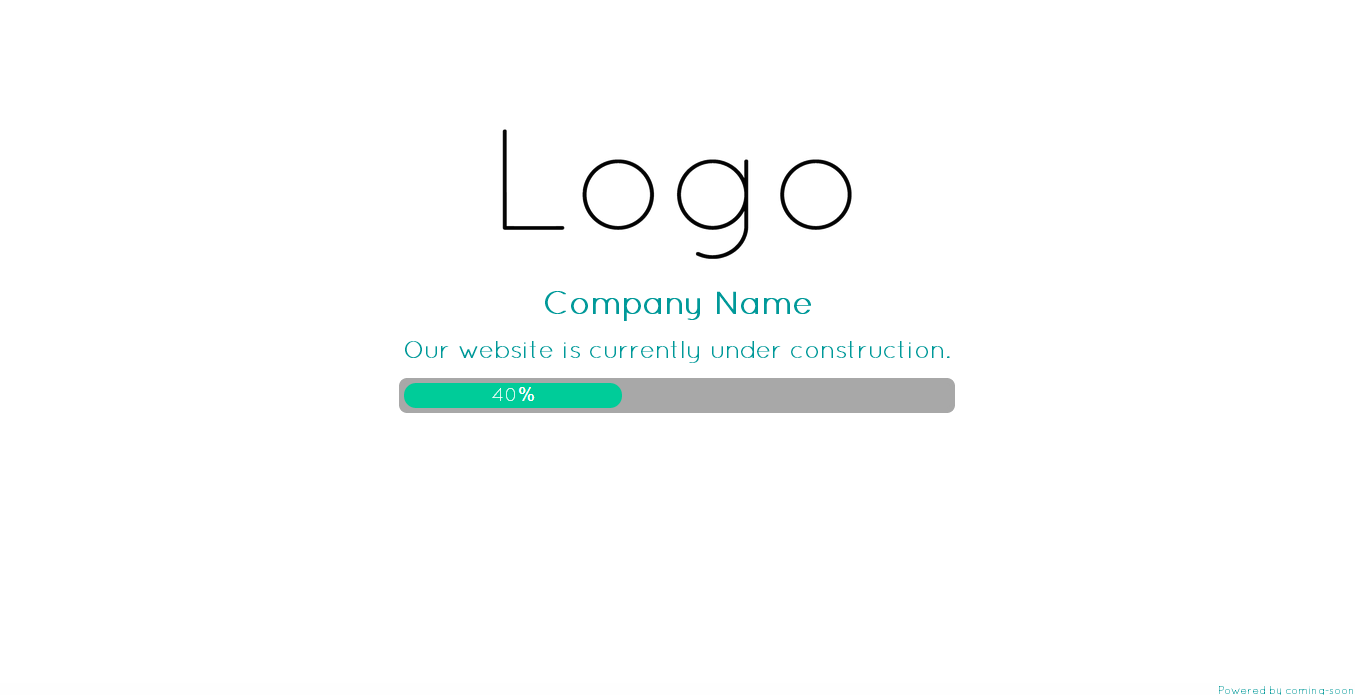
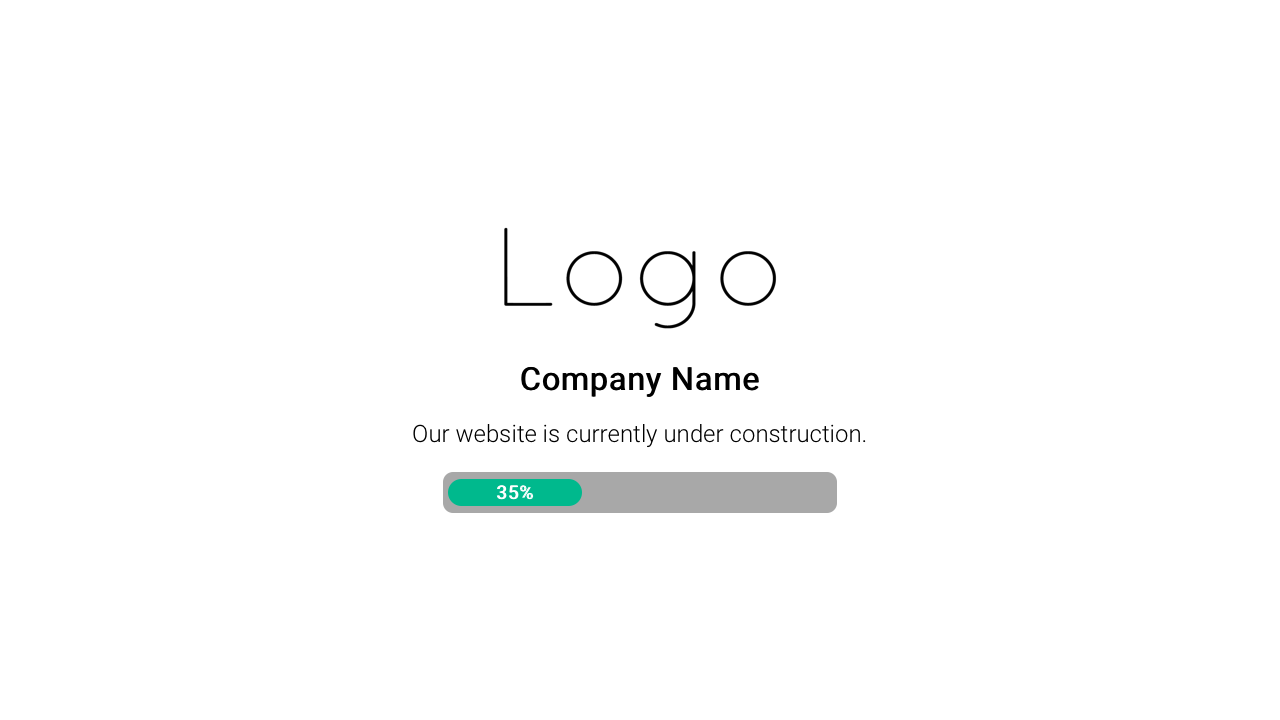
Update Design
Remove useless styles
Remove analytics code
Update font for more minimalistic look

diff --git a/index.html b/index.html
@@ -1,259 +1,114 @@
 <!DOCTYPE html>
-<!--/*License at http://github.com/cfws/coming-soon*/-->
+<!--/*License at http://github.com/YC/coming-soon*/-->
 <html>
     <head>
-        <meta name="google-site-verification" content="7FggGYhpbU11DrQ9--hxwjlvIPXdCfj5g17MQ0pAfyA" /><!--Webmaster Tools Verify-->
-        <meta charset="utf-8"> <!--Define Metadata Charset-->
+        <meta charset="utf-8"> <!--Define Charset-->
         <meta name=viewport content="width=device-width, initial-scale=1">
-        <!--[if lt IE 9]>
-<script src="http://html5shiv.googlecode.com/svn/trunk/html5.js"></script>
-<![endif]-->
+        <!--[if lt IE 9]><script src="http://html5shiv.googlecode.com/svn/trunk/html5.js"></script><![endif]-->
         <style type="text/css">
-            /*Main Page Customizable Code at Bottom of Page*/
-
-            h1,h2,img,h3,body,html {margin:0;padding:0;} /*Basic/Quick CSS Reset*/
-
-            html
-            {
-                height:100%;
-            }
-
+            body {margin:0;padding:0;} /*CSS Reset*/
+            html {height:100%;}
             body
             {
-                font-family: 'Quicksand', sans-serif; /*Default Font*/
-                width:100%;
-                height:100%;
+                font-family: 'Roboto', sans-serif; /*Default Font*/
+                width:100%; height:100%;
                 text-align:center; /*Align Text to Center*/
                 display:table;
-                font-weight: 300; /*Use Light Variation of Font*/
-                color:#099; /*Text Colour*/
-                -moz-animation: fadeinelement 3s; /*Mozilla*/
-                -webkit-animation: fadeinelement 3s; /*Webkit*/
-                -o-animation: fadeinelement 3s; /*Opera*/
-                -ms-animation: fadeinelement 3s; /*Microsoft*/
-                animation: fadeinelement 3s; /*Main*/
-                background-color:#fff; /*Background Colour of Page*/
+                -moz-animation: fadeinelement 3s;
+                -webkit-animation: fadeinelement 3s;
+                -o-animation: fadeinelement 3s;
+                -ms-animation: fadeinelement 3s;
+                animation: fadeinelement 3s;
             }
-
-            #main
+            h1,h2
             {
-                font-family:inherit; /*Inherit Parent Font*/
-                vertical-align:middle;
-                display:table-cell;
-                text-align:center;
-            }
-
-            #progress
-            {
-                width:40%; /*Changes Percentage of Bar Total Width*/
-                height:1.6em; /*Text Field Height*/
-                border-radius:8px; /*Roundness of Bar*/
-                background-color:#a8a8a8; /*Background Colour of Bar*/
-                margin:0 auto; /*Center Object*/
-                border: 5px solid #a8a8a8; /*Border Colour of Bar*/
-            }
-
-            #fill
-            {
-                background-color:#0C9; /*Fill of Bar*/
-                width:40%; /*Bar Percent, Can be Customized down Below*/
-                height:100%; /*Set Bar Fill Height to 100%*/
-                border-radius:25px; /*Bar Roundness*/
-                -moz-animation: proanimate 5s; /*Mozilla*/
-                -webkit-animation: proanimate 5s; /*Webkit*/
-                -o-animation: proanimate 5s; /*Opera*/
-                -ms-animation: proanimate 5s; /*Microsoft*/
-                animation: proanimate 5s; /*Main*/
-            }
-            h2,h1
-            {
-                color:inherit; /*Inherit Colours from Body*/
                 cursor:default; /*When hover, default cursor displays*/
-                -moz-transition-duration:.6s; /*Mozilla*/
-                -ms-transition-duration:.6s; /*Microsoft*/
-                -o-transition-duration:.6s; /*Opera*/
-                -webkit-transition-duration:.6s; /*Webkit*/
-                transition-duration:.6s; /*Main*/
-                margin:10px 0; /*Top/Bottom Margin for Space*/
-            }/*h2:hover{color:#099;}*/
+            }
             h2
             {
-                margin-bottom:20px;
-            }
-            h3
-            {
-                -moz-animation: fadeinelement 3s; /*Mozilla*/
-                -webkit-animation: fadeinelement 3s; /*Webkit*/
-                -o-animation: fadeinelement 3s; /*Opera*/
-                -ms-animation: fadeinelement 3s; /*Microsoft*/
-                animation: fadeinelement 3s; /*Main*/
+                font-weight:300;
+                margin-bottom:24px;
             }
             img
             {
-                width:25%; /*Define Image Fluid Width*/
+                width:25%; /*Define Image Width*/
+                width:25vw;
                 border:0; /*For IE*/
-            }	
-
+            }
+            #main
+            {
+                vertical-align:middle;
+                display:table-cell;
+            }
+            #progress
+            {
+                width:30%; /*Changes Percentage of Bar Total Width*/
+                border-radius:10px; /*Roundness of Bar*/
+                background-color:#a8a8a8; /*Background Colour of Bar*/
+                margin:0 auto; /*Center Object*/
+                padding:2px 0;
+                border: 5px solid #a8a8a8; /*Border Colour of Bar*/
+            }
+            #fill
+            {
+                padding:2px 0;
+                background-color:#00b98b; /*Fill of Bar*/
+                width:35%; /*Bar Percent, Can be Customized down Below*/
+                border-radius:25px; /*Bar Roundness*/
+                -moz-animation: proanimate 2s;
+                -webkit-animation: proanimate 2s;
+                -o-animation: proanimate 2s;
+                -ms-animation: proanimate 2s;
+                animation: proanimate 2s;
+            }
             #barpercent h3
             {
-                color:white; /*Bar Percentage Text*/
-                font-weight:inherit; /*Inherit Font Weight*/
+                color:white; /*Bar Percentage Text Colour*/
                 cursor:default; /*Default Cursor on Hover color:#000;*/
+                margin:0; padding:0;
+                opacity:0;
+                -moz-animation: fadeinelement 3s forwards;
+                -webkit-animation: fadeinelement 3s forwards;
+                -o-animation: fadeinelement 3s forwards;
+                -ms-animation: fadeinelement 3s forwards;
+                animation: fadeinelement 3s forwards;
             }
-
-            footer
-            {
-                text-align:right;
-                position:fixed;  
-                font-size:0.7em;
-                bottom:0px;
-                right:5px;
-                background-color:white;
-                background-color:rgba(255,255,255,0.5);
-                width:100%;
-            }
-
-            footer a
-            {
-                font-size:inherit;
-                color:#0C9;
-                color:inherit;
-                text-decoration:none;
-                -moz-transition-duration:.6s; /*Mozilla*/
-                -ms-transition-duration:.6s; /*Microsoft*/
-                -o-transition-duration:.6s; /*Opera*/
-                -webkit-transition-duration:.6s; /*Webkit*/
-                transition-duration:.6s; /*Main*/
-            }
-
-            footer a:hover
-            {
-                color:#099;
-            }
-
 
             @keyframes fadeinelement /*Fades in Page*/
             {
                 from {opacity:0;}
                 to {opacity:1;}
             }
-
             @-webkit-keyframes fadeinelement
             {
                 from {opacity:0;}
                 to {opacity:1;}
             }	
-
             @-ms-keyframes fadeinelement
             {
                 from {opacity:0;}
                 to {opacity:1;}
             }	
-
             @-o-keyframes fadeinelement
             {
                 from {opacity:0;}
                 to {opacity:1;}
-            }	
-
-            @keyframes fadeinelement
-            {
-                from {opacity:0;}
-                to {opacity:1;}
             }
-
-            @-webkit-keyframes fadeinelement
+            
+             /* Animates Bar Moving on Page Load*/
+            @keyframes proanimate{from {width:0%;}}
+            @-moz-keyframes proanimate{from {width:0;}}
+            @-webkit-keyframes proanimate{from {width:0%;}}
+            @-ms-keyframes proanimate{from {width:0%;}}
+            @-o-keyframes proanimate{from {width:0%;}}
+            
+            /*Responsive*/
+            @media screen and (max-width:600px)
             {
-                from {opacity:0;}
-                to {opacity:1;}
-            }	
-
-            @-ms-keyframes fadeinelement
-            {
-                from {opacity:0;}
-                to {opacity:1;}
-            }	
-
-            @-o-keyframes fadeinelement
-            {
-                from {opacity:0;}
-                to {opacity:1;}
-            }	
-
-            @keyframes proanimate /* Animates Bar Moving on Page Load*/
-            {from {width:0%;}} /*Main*/
-            @-moz-keyframes proanimate
-            {from {width:0;}} /*Mozilla*/
-            @-webkit-keyframes proanimate
-            {from {width:0%;}}	/*Webkit*/
-            @-ms-keyframes proanimate
-            {from {width:0%;}}	/*Microsoft*/
-            @-o-keyframes proanimate
-            {from {width:0%;}} /*Opera*/
-
-            /*User Customize Area*/
-            body
-            {
-                background-color:#fff; /*Page Background Colour*/
-                color:#099; /*Page Text Colour*/
-                font-family: 'Quicksand', sans-serif; /*Font, Please Also Change Font Embed Link at Top of Page*/
-            }
-
-            #barpercent h3
-            {
-                color:white; /*Change Colour of Text (Percentage) on Progressbar*/
-            }
-
-            #progress
-            {
-                width:40%; /*Changes Bar Container Total Width*/
-                border-radius:8px; /*Changes Roundness of Bar Container*/
-                background-color:#a8a8a8; /*Changes Background Colour of Bar Container*/
-                border: 5px solid #a8a8a8; /*Changes Border Colour of Bar Container*/
-            }
-
-            #fill
-            {
-                border-radius:25px; /*Bar Roundness*/
-                background-color:#0C9; /*Changes Bar Colour*/
-                width:40%; /*Changes Percentage of Bar, Please also change HTML Property Below*/
-            }
-
-            /*End User Customize Area*/
-        </style>	
-
-        <style>
-            /*Responsive Stylesheet*/
-            @media screen and (max-width:700px)
-            {
-                img{
-                    width:40%;
-                }
-                h1
+                img
                 {
-                    font-size:1.7em;
-                }
-                h2
-                {
-                    font-size:1.3em;
-                }
-                #progress
-                {
-                    width:80%; /*Changes Percentage of Bar Width*/
-                    line-height:1.7em;
-                }
-
-                h3
-                {
-                    font-size:1em;
-                }
-
-            }
-
-            @media screen and (max-width:400px)
-            {
-                img{
                     width:80%;
+                    width:60vw;
                 }
                 h1
                 {
@@ -261,22 +116,15 @@
                 }
                 h2
                 {
+                    margin: inherit 1.1em;
                     font-size:1.1em;
                 }
                 #progress
                 {
                     width:80%; /*Changes Percentage of Bar Width*/
-                    line-height:1em;
-                    height:1em;
-                }
-
-                h3
-                {
-                    white-space:nowrap;
-
                 }
             }
-        </style>
+        </style>	
         <!--Title of Page--><title>Coming Soon</title>
     </head>	
     <body>
@@ -284,19 +132,8 @@
             <img src="logo.png" alt=""> <!--Logo-->
             <h1>Company Name</h1>
             <h2>Our website is currently under construction. </h2>
-            <div id="progress"><div id="fill"><div id="barpercent"><h3>40%</h3></div></div></div>
+            <div id="progress"><div id="fill"><div id="barpercent"><h3>35%</h3></div></div></div>
         </div> <!--End Page Container-->
-        <footer><a href="http://github.com/cfws/coming-soon">Powered by coming-soon</a></footer>
-        <link href='http://fonts.googleapis.com/css?family=Quicksand:300' rel='stylesheet' type='text/css'> <!--Define Google Fonts-->
-        <script>
-            (function(i,s,o,g,r,a,m){i['GoogleAnalyticsObject']=r;i[r]=i[r]||function(){
-                (i[r].q=i[r].q||[]).push(arguments)},i[r].l=1*new Date();a=s.createElement(o),
-                m=s.getElementsByTagName(o)[0];a.async=1;a.src=g;m.parentNode.insertBefore(a,m)
-                                    })(window,document,'script','//www.google-analytics.com/analytics.js','ga');
-
-            ga('create', 'UA-45591811-2', 'cfws.github.io');
-            ga('send', 'pageview');
-
-        </script>
+        <link href='https://fonts.googleapis.com/css?family=Roboto:400,300' rel='stylesheet' type='text/css'> <!--Define Google Fonts-->
     </body>
 </html>
